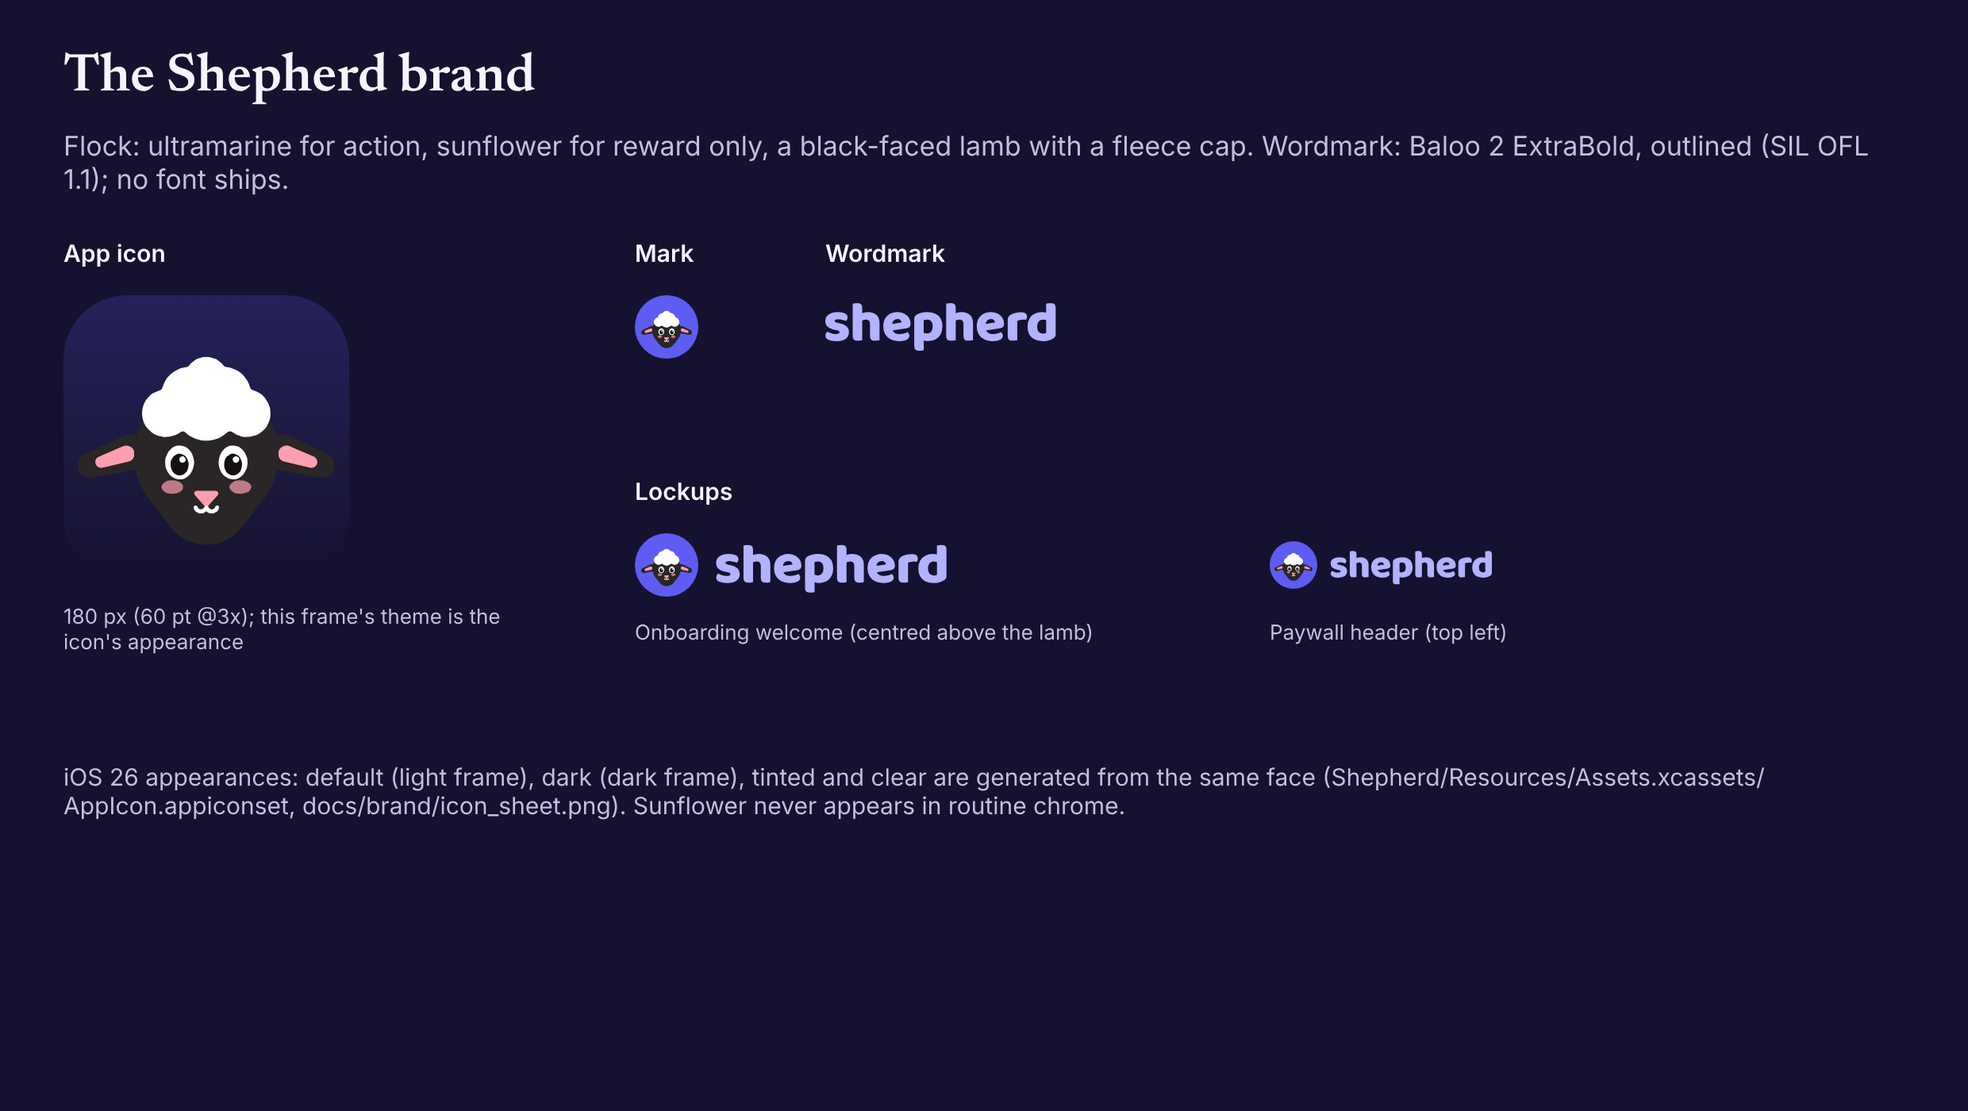
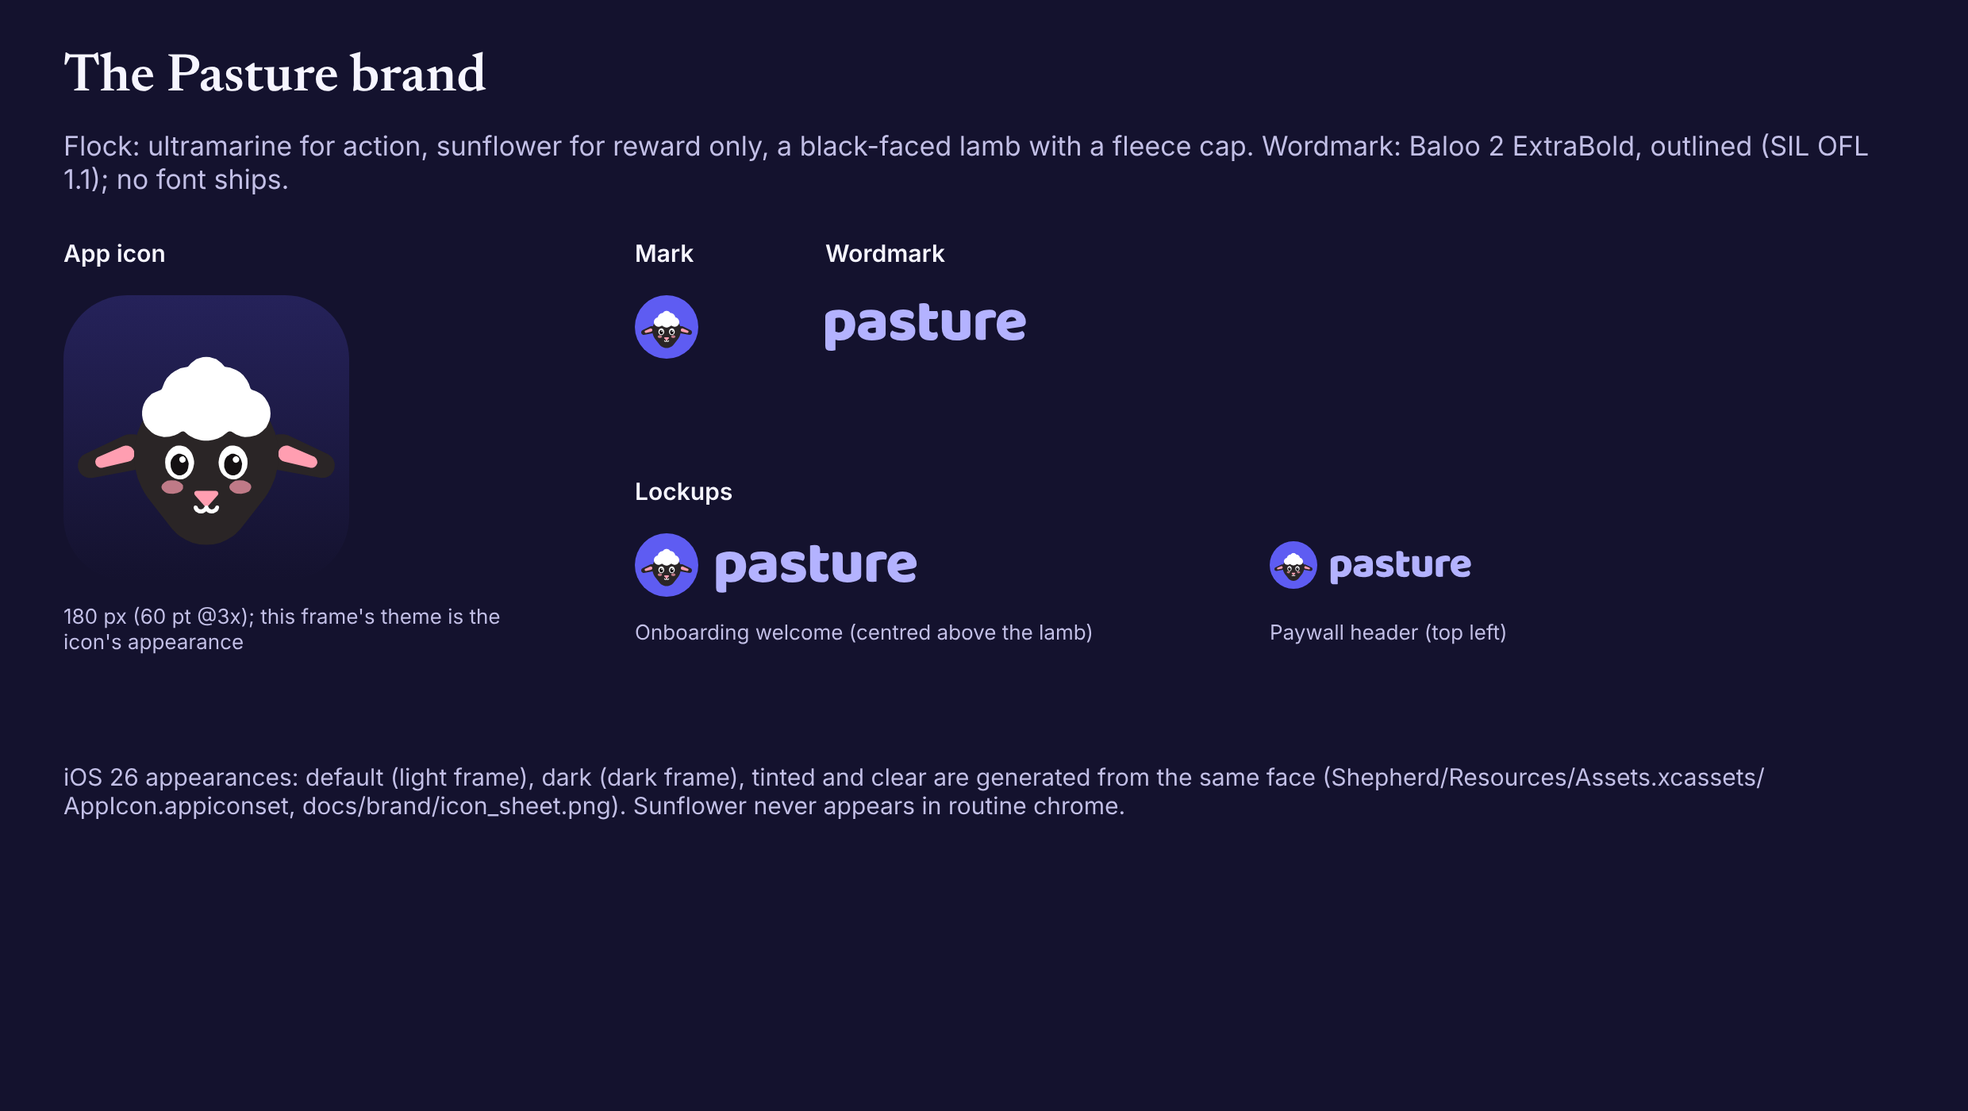
design+docs: Pasture in the Pencil library and screens, re-exported frames, README/research/PLAN/AGENTS
Wordmark paths in Brand/Wordmark, Brand/Lockup and Brand/Lockup/Compact updated in place
(ids kept) via pen-safe-save; screen copy renamed; 20 affected frames re-exported at 2x.
readme_tables.py read the removed sample_bible.json; it now reads web.json.

diff --git a/design/tools/readme_tables.py b/design/tools/readme_tables.py
@@ -28,7 +28,7 @@ def read_json(path):
 LIB = read_json(os.path.join(D, "shepherd.lib.pen"))
 SCR = read_json(os.path.join(D, "screens", "shepherd.pen"))
 PATHS = read_json(os.path.join(ROOT, "Shepherd/Resources/Content/paths.json"))["paths"]
-BIBLE = read_json(os.path.join(ROOT, "Shepherd/Resources/Content/sample_bible.json"))
+BIBLE = read_json(os.path.join(ROOT, "Shepherd/Resources/Content/web.json"))
 
 
 def walk(n):
@@ -214,12 +214,8 @@ def gen_content():
         out.append(
             f'- `{q["id"]}` "{q["prompt"]}": {ch}; correct {"ABCD"[q["correctIndex"]]}; explain: {json.dumps(q["explain"], ensure_ascii=False)}'
         )
-    sample = ", ".join(
-        f"{b['name']} {c['number']} ({len(c['verses'])} verses: {', '.join(str(v['number']) for v in c['verses'])})"
-        for b in BIBLE["books"]
-        for c in b["chapters"]
-    )
-    out.append(f"\nBible sample chapters: {sample}.")
+    chapters = sum(len(b["chapters"]) for b in BIBLE["books"])
+    out.append(f"\nBundled Bible: {BIBLE['name']}, {len(BIBLE['books'])} books, {chapters} chapters.")
     return "\n".join(out)
 
 

diff --git a/tools/brand/apply_design.py b/tools/brand/apply_design.py
@@ -296,7 +296,7 @@ def screens_cmds():
                 d.update(kw)
                 return f"Insert(f,{json.dumps(d)});"
 
-            js.append(t(40, 32, "The Shepherd brand", 34, "600", font="--font-display"))
+            js.append(t(40, 32, "The Pasture brand", 34, "600", font="--font-display"))
             js.append(
                 t(
                     40,

diff --git a/design/README.md b/design/README.md
@@ -1,6 +1,6 @@
-# Shepherd: iOS 26 Liquid Glass design
+# Pasture: iOS 26 Liquid Glass design
 
-Design files for the Shepherd iPhone app: a Bible-habit app with a black-faced lamb companion, drawn for iOS 26 Liquid Glass. Brand direction **Flock** (ultramarine for action, sunflower for reward).
+Design files for the Pasture iPhone app (formerly Shepherd): a Bible-habit app with a black-faced lamb companion, drawn for iOS 26 Liquid Glass. Brand direction **Flock** (ultramarine for action, sunflower for reward).
 
 | File | What it holds |
 |---|---|
@@ -31,42 +31,42 @@ Sections marked *generated* are written by `python3 design/tools/readme_tables.p
 | `Companion` | `name` (default "Lamb", set in onboarding), `xp`, `stage = max(1, min(5, 1 + xp / 50))` | Lamb stage everywhere; Companion screen; XP bars |
 | `StreakState` | `current` (starts at 0; `markCompleted` sets 1), `best`, `freezesLeft` (no logic consumes it) | Streak chip in the Today toolbar; reward chip. No freeze state is drawn: nothing in the code uses `freezesLeft` yet |
 | `LessonProgress` | `lessonId`, `quizScore` | Path node done / current state |
-| `EntitlementState` | `isPremium` | Settings "Shepherd Premium" row |
+| `EntitlementState` | `isPremium` | Settings "Pasture Premium" row |
 | `LessonView.complete` | `addXP(10 + score)`, `markCompleted()` | Reward: +12 XP for 2/2 correct on Day 1 (+11 for 1/2, +10 for 0/2) |
 | `StoreKitManager` | `premium.yearly`, `premium.monthly`, `Product.displayPrice` | Paywall plan cards; prices in the frames are placeholders |
 | `ContentStore.verse(ref:)` | WEB text by `BOOK.c.v` | Every verse in every frame |
 
 ### 2.2 Verbatim copy kept from the scaffold
 
-Onboarding: "Welcome to Shepherd", "A few minutes a day. Scripture that sticks. Everything stays on your phone.", "What’s your goal?", "How familiar are you?", "How many minutes a day?", "Name your companion", "Continue", "See my plan". Paywall: "Grow with Shepherd Premium", the four features "Full learning paths", "Streak freezes", "Companion outfits", "Widgets & reminders", "Yearly · 7-day free trial · Best value · Most popular", "Monthly · 7-day free trial", "Start free trial", "Continue with free path". Lesson: "Take the quiz", "Prayer". Settings: "No account. Progress stays on this device.", "No ad trackers in v1." (shown as "Ad trackers · None in v1").
+Onboarding: "Welcome to Pasture", "A few minutes a day. Scripture that sticks. Everything stays on your phone.", "What’s your goal?", "How familiar are you?", "How many minutes a day?", "Name your companion", "Continue", "See my plan". Paywall: "Grow with Shepherd Premium", the four features "Full learning paths", "Streak freezes", "Companion outfits", "Widgets & reminders", "Yearly · 7-day free trial · Best value · Most popular", "Monthly · 7-day free trial", "Start free trial", "Continue with free path". Lesson: "Take the quiz", "Prayer". Settings: "No account. Progress stays on this device.", "No ad trackers in v1." (shown as "Ad trackers · None in v1").
 
 Copy changed on purpose: the building step reads "Preparing your path…" (one path exists, nothing is personalised) and its rows read "Goal: Grow a daily habit" and "Daily goal: 5 min". The quiz drops "Question 1 of 2" for a progress bar plus "Day 1".
 
 ### 2.3 Sample content (*generated*, pasted from the JSON)
 
 <!-- gen:content -->
-Path `beginner-7`: "Beginner: 7 Days with God" (level `beginner`, `estimatedDays` 7, 7 lessons). Translation label in the JSON: `WEB`.
+Path `beginner-30`: "First Steps: 30 Days with God" (level `beginner`, `estimatedDays` 30, 7 lessons). Translation label in the JSON: `WEB`.
 
 | Day | Lesson id | Title | Verses | Questions (explain present?) |
 |---|---|---|---|---|
-| 1 | `day1` | In the beginning | GEN.1.1, GEN.1.3 | `day1-q1` yes; `day1-q2` null |
-| 2 | `day2` | Made in God's image | GEN.1.26, GEN.1.27 | `day2-q1` null; `day2-q2` null |
-| 3 | `day3` | The Word became flesh | JHN.1.1, JHN.1.14 | `day3-q1` null; `day3-q2` null |
-| 4 | `day4` | God so loved | JHN.3.16, JHN.3.17 | `day4-q1` null; `day4-q2` null |
-| 5 | `day5` | The Lord is my shepherd | PSA.23.1, PSA.23.4 | `day5-q1` null; `day5-q2` null |
-| 6 | `day6` | Light of the world | MAT.5.14, MAT.5.16 | `day6-q1` null; `day6-q2` null |
-| 7 | `day7` | Pray like this | MAT.6.9, MAT.6.11, PHP.4.6, PHP.4.7 | `day7-q1` null; `day7-q2` null; `day7-q3` null |
+| 1 | `day1` | In the beginning | GEN.1.1, GEN.1.3 | `day1-q1` yes; `day1-q2` yes |
+| 2 | `day2` | Made in God's image | GEN.1.26, GEN.1.27 | `day2-q1` yes; `day2-q2` yes |
+| 3 | `day3` | The Word became flesh | JHN.1.1, JHN.1.14 | `day3-q1` yes; `day3-q2` yes |
+| 4 | `day4` | God so loved | JHN.3.16, JHN.3.17 | `day4-q1` yes; `day4-q2` yes |
+| 5 | `day5` | The Lord is my shepherd | PSA.23.1, PSA.23.4 | `day5-q1` yes; `day5-q2` yes |
+| 6 | `day6` | Light of the world | MAT.5.14, MAT.5.16 | `day6-q1` yes; `day6-q2` yes |
+| 7 | `day7` | Pray like this | MAT.6.9, MAT.6.11, PHP.4.6, PHP.4.7 | `day7-q1` yes; `day7-q2` yes; `day7-q3` yes |
 
 **Day 1, verbatim** (`day1`)
 
 - Genesis 1:1 (WEB): "In the beginning, God created the heavens and the earth."
-- Genesis 1:3 (WEB): "God said, "Let there be light," and there was light."
+- Genesis 1:3 (WEB): "God said, “Let there be light,” and there was light."
 - Body: "God speaks creation into being. Light comes first — order from chaos.  **Reflection:** Where do you need God to bring light today?"
 - Prayer: "Thank you, God, for creating all things and for bringing light into darkness."
-- `day1-q1` "Who created the heavens and the earth?": A "God" · B "Angels" · C "Chance" · D "Kings"; correct A; explain: "Genesis 1:1 — God is the Creator."
-- `day1-q2` "What did God say first?": A "Let there be light" · B "Let there be land" · C "It is finished" · D "Follow me"; correct A; explain: null
+- `day1-q1` "Who created the heavens and the earth?": A "Angels" · B "God" · C "Chance" · D "Kings"; correct B; explain: "Genesis 1:1: \"In the beginning, God created the heavens and the earth.\""
+- `day1-q2` "What did God say first?": A "Let there be land" · B "It is finished" · C "Let there be light" · D "Follow me"; correct C; explain: "Genesis 1:3. God speaks, and light is the first thing he makes."
 
-Bible sample chapters: Genesis 1 (8 verses: 1, 2, 3, 4, 5, 26, 27, 31), John 1 (6 verses: 1, 2, 3, 4, 5, 14), John 3 (2 verses: 16, 17), Psalms 23 (4 verses: 1, 2, 3, 4), Matthew 5 (6 verses: 3, 4, 5, 6, 14, 16), Matthew 6 (5 verses: 9, 10, 11, 12, 13), Philippians 4 (2 verses: 6, 7).
+Bundled Bible: World English Bible, 66 books, 1189 chapters.
 <!-- /gen:content -->
 
 ### 2.4 Weaknesses of the scaffold this design answers
@@ -84,7 +84,7 @@ Direction **Flock** (chosen from three in `data/sb-brand/directions`, outside th
 - **Canvas:** an almost-white lavender (`#FBFAFF`) by day, **midnight indigo** (`#14122E`, card `#1E1B42`) by night. The dark is chromatic on purpose: Liquid Glass reads as tinted glass on it, not grey on black. A periwinkle-to-sunrise sky sits behind most screens, with vivid light meadow hills on Today.
 - **Accent: ultramarine.** Text `#3431D6` / `#B3B2FF`, fill `#3D3AE8` / `#5E5CF2`. It is for actions, the current node, progress, icon tints and the lamb's bandana. The dark fill sits in the narrow band that carries a white label at 4.5:1 *and* clears 3:1 against the dark surfaces as an icon tint.
 - **Sunflower (`--color-gold*`) is for reward and celebration only:** XP, streak, sparkles, the bell, the crown's centres, the sunlit path. It never colours routine chrome.
-- **Logo.** A lowercase wordmark `shepherd` outlined from **Baloo 2 ExtraBold** (SIL Open Font License 1.1, Ek Type), so no font ships. The mark is the lamb's front face on an ultramarine chip. `Brand/Lockup` is used centred above the lamb on Onboarding_Welcome; `Brand/Lockup/Compact` is used at the top left of the paywall.
+- **Logo.** A lowercase wordmark `pasture` outlined from **Baloo 2 ExtraBold** (SIL Open Font License 1.1, Ek Type), so no font ships. The mark is the lamb's front face on an ultramarine chip. `Brand/Lockup` is used centred above the lamb on Onboarding_Welcome; `Brand/Lockup/Compact` is used at the top left of the paywall.
 - **App icon.** The front face filling an ultramarine gradient tile (`--color-icon-top` / `-bottom`). The dark appearance uses the same face on midnight indigo. Tinted is a grayscale source with the face lifted to mid-grey so the silhouette survives the tint; clear is a white head silhouette with the eyes cut out. All four come from `tools/brand/brandart.py`.
 - **Devotional, not a kids' app:** New York stays for titles, verses and prayer, scripture screens stay lamb-free, and motion stays calm (section 9).
 - **Green and red are reserved for quiz correctness** (`--color-success*`, `--color-error*`). Nothing else uses them. The Settings restore toast uses a neutral info icon for this reason.
@@ -312,9 +312,9 @@ Type scale (Dynamic Type style → size used in the frames): Large Title 34 (Hom
 | `Avatar/S4/Idle` | 56×56 | 19 path | lamb head-and-shoulders avatar (56 pt, pre-cut to the circle) |
 | `Avatar/S5/Idle` | 56×56 | 21 path | lamb head-and-shoulders avatar (56 pt, pre-cut to the circle) |
 | `Brand/Mark` | 40×40 | 1 ellipse, 10 path | logo mark: the lamb face on an ultramarine chip |
-| `Brand/Wordmark` | 145.15×30 | 1 path | lowercase wordmark, outlined Baloo 2 ExtraBold (SIL OFL 1.1) |
-| `Brand/Lockup` | 196.35×40 | 1 ellipse, 11 path | mark + wordmark, onboarding welcome size |
-| `Brand/Lockup/Compact` | 140.01×30 | 1 ellipse, 11 path | mark + wordmark, paywall header size |
+| `Brand/Wordmark` | 126.37×30 | 1 path | lowercase wordmark, outlined Baloo 2 ExtraBold (SIL OFL 1.1) |
+| `Brand/Lockup` | 177.57×40 | 1 ellipse, 11 path | mark + wordmark, onboarding welcome size |
+| `Brand/Lockup/Compact` | 126.86×30 | 1 ellipse, 11 path | mark + wordmark, paywall header size |
 | `Brand/AppIcon` | 180×180 | 10 path | app icon artwork at 180 px (60 pt @3x); theme picks default / dark |
 
 | Lamb variant | Artboard (pt) | Vector layers |

diff --git a/design/research.md b/design/research.md
@@ -1,6 +1,8 @@
-# Shepherd — iOS 26 Liquid Glass Design Research
+# Pasture — iOS 26 Liquid Glass Design Research
 
-This document establishes the empirical research foundation for the Shepherd iOS 26 "Liquid Glass" redesign, conducted in accordance with the `refero-design` methodology. Every aesthetic, structural, and behavioral choice traces directly to live Refero MCP research, the sister app quality rubric, or Apple's official iOS 26 Liquid Glass specification.
+> **Renamed 2026-10-06: Shepherd → Pasture.** A naming scan found an existing App Store app, "Shepherd: Spiritual Bible BFF" (id 6745461941), with a lamb mascot and Duolingo-style Bible paths. The App Store name is now "Pasture: Daily Bible Path". The lamb, the Flock palette and the icon art are unchanged. Only the name and the wordmark (`pasture`, same Baloo 2 ExtraBold outline) changed. The research below was done under the old name.
+
+This document establishes the empirical research foundation for the Pasture (formerly Shepherd) iOS 26 "Liquid Glass" redesign, conducted in accordance with the `refero-design` methodology. Every aesthetic, structural, and behavioral choice traces directly to live Refero MCP research, the sister app quality rubric, or Apple's official iOS 26 Liquid Glass specification.
 
 ---
 
@@ -22,7 +24,7 @@ This document establishes the empirical research foundation for the Shepherd iOS
 | **Quiz & Lesson Feedback** | `0307c5b0-172f-457f-b1bf-dc897ebf13a6`<br>`474ff039-e63c-4fa6-866f-6ff1fda2a4dc` | Duolingo (iOS) | Stacked radio choice cards; instantaneous post-answer feedback sheet (green tint for correct, coral tint for incorrect); explanation citing the relevant verse reference; prominent primary action button. |
 | **Daily Streak & Habit** | `0590e3dd-071b-4993-b48f-34a17594fe1b`<br>`24bd0c22-311a-43a6-a71d-3d22ab4cd321` | Foodvisor / Clearful (iOS) | Flame streak badge with day counter; 7-day horizontal weekday dot sequence; celebrating consistency without artificial gamification spam. |
 | **Companion / Mascot** | `6d30579f-ae0d-40bc-b3fb-7e753f56cbc1`<br>`f4a0b4dd-b48e-4de9-a3e7-c7d234a50fdd` | Mindllama (iOS) | Cute vector sheep/lamb mascot inside circular badge; stage evolution based on XP; growth milestones directly tied to `Companion.xp` and `Companion.stage`. |
-| **StoreKit 2 Trial Paywall** | `188237cf-f12f-44a0-899d-043fc3044666`<br>`2f5d1d88-a77e-49e8-bd5b-70e331f74da2` | Drops / The Athletic (iOS) | Vertical trial timeline (done step, Today, Day 5, Day 7); Shepherd's Day 5 row is "Cancel anytime before Day 7" (no reminder promise, captain D3); Annual primary card ($29.99/yr placeholder) + Monthly option ($4.99/mo); auto-renew disclosure; Restore Purchases; Terms and Privacy links. |
+| **StoreKit 2 Trial Paywall** | `188237cf-f12f-44a0-899d-043fc3044666`<br>`2f5d1d88-a77e-49e8-bd5b-70e331f74da2` | Drops / The Athletic (iOS) | Vertical trial timeline (done step, Today, Day 5, Day 7); Pasture's Day 5 row is "Cancel anytime before Day 7" (no reminder promise, captain D3); Annual primary card ($29.99/yr placeholder) + Monthly option ($4.99/mo); auto-renew disclosure; Restore Purchases; Terms and Privacy links. |
 | **Onboarding Questionnaire** | `b5494d57-8a09-4371-a3db-8dd105a3b094`<br>`c0b7caf1-89f3-4972-a3f5-096fff051026` | Todoist / How We Feel (iOS) | Clean single-column option cards with selection indicators; top progress bar; "Building your personal path" loading state with animated progress and summary of selected goals. |
 | **Scripture & Bible Reader** | `4c8947a8-61fa-49f3-a7d8-5d65ac08bfad`<br>`d9a6a37d-2c7f-4f05-abfa-b317c513c797` | Apple Books / Fable (iOS) | Paper-like readability, generous 20pt side gutters, clear verse numbers in subtle secondary ink, translation badge ("WEB"), distraction-free typography. |
 
@@ -117,7 +119,7 @@ Motion rules: SwiftUI only. Glass morphs use one spring, `.spring(duration: 0.35
 ## 4. Anti-Averaging Quality Gates
 
 To ensure the design maintains an A+ standard and avoids generic "AI slop":
-1. **Not a generic ham-radio or SaaS template:** Shepherd has its own pastoral, devotional identity—warm vellum, quiet wool, morning sun, and still waters.
+1. **Not a generic ham-radio or SaaS template:** Pasture has its own pastoral, devotional identity—warm vellum, quiet wool, morning sun, and still waters.
 2. **Sharp contrast boundaries:** Text-to-surface pairs strictly exceed WCAG AA (4.5:1 for body, 3.0:1 for large text).
 3. **No hallucinated features:** Strictly conforms to `docs/PLAN.md` and `README.md` (no social feeds, no cloud sync, no push notifications beyond local reminders).
 4. **Honest privacy guarantees:** On-device storage via SwiftData clearly communicated throughout onboarding and settings.

diff --git a/AGENTS.md b/AGENTS.md
@@ -2,6 +2,7 @@
 
 This file is the project's committed home for project-intrinsic agent knowledge: build, test, release, architecture, and sharp-edge notes that should travel with the code.
 
+- The app is **Pasture** (renamed from Shepherd on 2026-10-06; App Store name "Pasture: Daily Bible Path"). Every user-visible string, the wordmark and the StoreKit display names say Pasture. The internal identifiers deliberately keep Shepherd: the Swift module, targets and folders, `Shepherd.xcodeproj`, the `.pen` file names, the bundle id and product ids `com.dangvietquan.shepherd*`, and the repo name. Never rename them. `ShepherdTests/testUserVisibleNameIsPasture` guards the display name and the StoreKit names.
 - Design lives in `design/`: `shepherd.lib.pen` (tokens + components), `screens/shepherd.pen` (imports it as alias `I`), PNG exports, and the spec in `design/README.md`. The README's token, component, frame and sample-content sections are generated: run `python3 design/tools/readme_tables.py` after changing a `.pen`.
 - Edit `.pen` files only through Pencil (app, MCP, or headless `pen interactive` with a safe-save that checks `list_libraries()` is ok). Never hand-edit the JSON; a broken library link or a renamed variable silently flattens token bindings.
 - Every top-level screen frame must set `theme: {"I:mode": "light"|"dark"}`, or library bindings render black.
@@ -9,7 +10,7 @@ This file is the project's committed home for project-intrinsic agent knowledge:
 - Scripture, lesson and quiz text in designs must come verbatim from `Shepherd/Resources/Content/*.json` (WEB). Green/red are reserved for quiz correctness.
 - Bible text (`web.json`, WEB `engwebp`) is generated by `tools/bible/build_web.py` from a SHA-256-pinned eBible zip; never hand-edit it (the "World English Bible" name is only allowed for unchanged text, punctuation included). Lesson content (`paths.json`) must pass `python3 -I tools/content/validate_content.py` (`--release` also rejects `draft` paths) and `python3 -I -m unittest discover -s tools/content`; every quiz question needs an `answerRef` proof verse among the lesson's `verseRefs`. Lesson ids are global progress keys: never rename one.
 - `ShepherdTests/StoreKitTests` hangs in a fresh simulator clone (SKTestSession errors); run unit tests with `-only-testing:ShepherdTests/ContentTests -only-testing:ShepherdTests/ShepherdTests` when it does.
-- Brand (Flock) source of truth is `tools/brand/`: colours in `tokens.py` (`python3 tools/brand/tokens.py check flock` is the AA gate), the lamb in `lambgen.py` (generated, never hand-drawn). `apply_design.py` writes both into the `.pen` files and `apply_app.py` writes colour sets, `lamb_variants.json`, AppIcon, TabLamb and wordmark. Change a colour or the lamb there, then re-apply to both sides. The scripts need shapely and resvg_py.
+- Brand (Flock) source of truth is `tools/brand/`: colours in `tokens.py` (`python3 tools/brand/tokens.py check flock` is the AA gate), the lamb in `lambgen.py` (generated, never hand-drawn). `apply_design.py` writes both into the `.pen` files and `apply_app.py` writes colour sets, `lamb_variants.json`, AppIcon, TabLamb and wordmark. The wordmark text is set in `brandart.py` `WORDMARKS`; regenerate `wordmark.json` from Baloo 2 (`google/fonts` `ofl/baloo2/Baloo2[wght].ttf`). Change a colour or the lamb there, then re-apply to both sides. The scripts need shapely and resvg_py.
 
 ## Maintaining this file
 

diff --git a/README.md b/README.md
@@ -1,4 +1,6 @@
-# Shepherd
+# Pasture
+
+_Formerly Shepherd: renamed on 2026-10-06. The App Store name is "Pasture: Daily Bible Path". The code keeps the old internal names (the `Shepherd` Swift module, targets and folders, `Shepherd.xcodeproj`, bundle id `com.dangvietquan.shepherd`, the subscription product ids and the repo name), which users never see._
 
 Privacy-first Bible learning for iOS — Duolingo-style daily path, lamb companion, soft paywall.  
 No account. No Meta SDK. Progress stays on device.

diff --git a/docs/PLAN.md b/docs/PLAN.md
@@ -1,4 +1,4 @@
-# Shepherd — build plan
+# Pasture (formerly Shepherd) — build plan
 
 ## Positioning
 On-device Bible habit app: short daily lessons, streak + lamb companion, soft annual paywall.  
